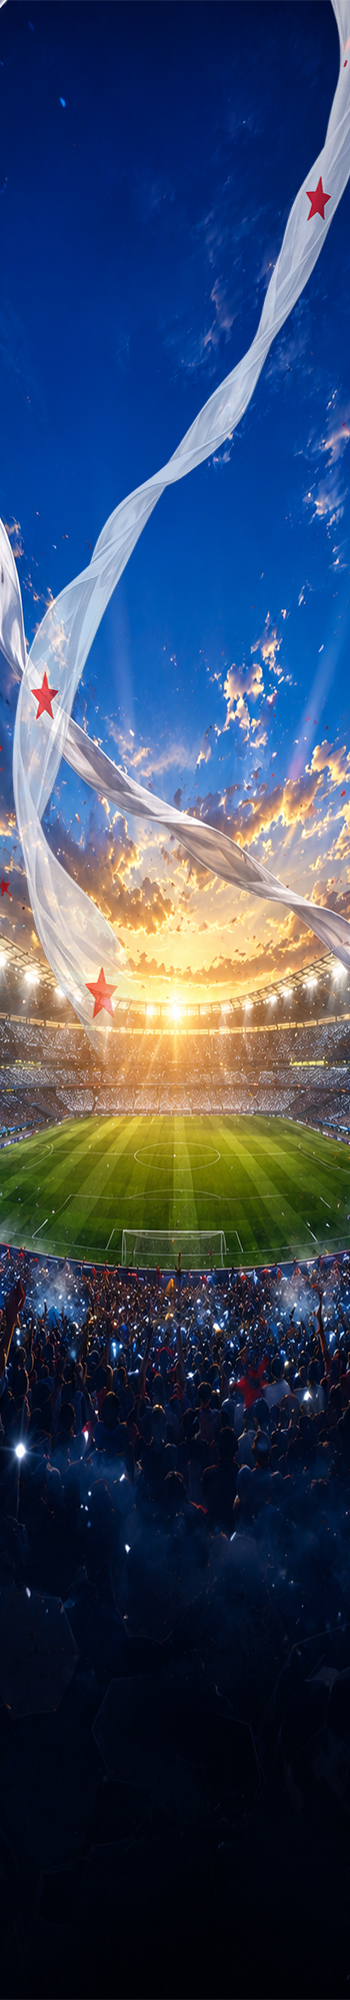
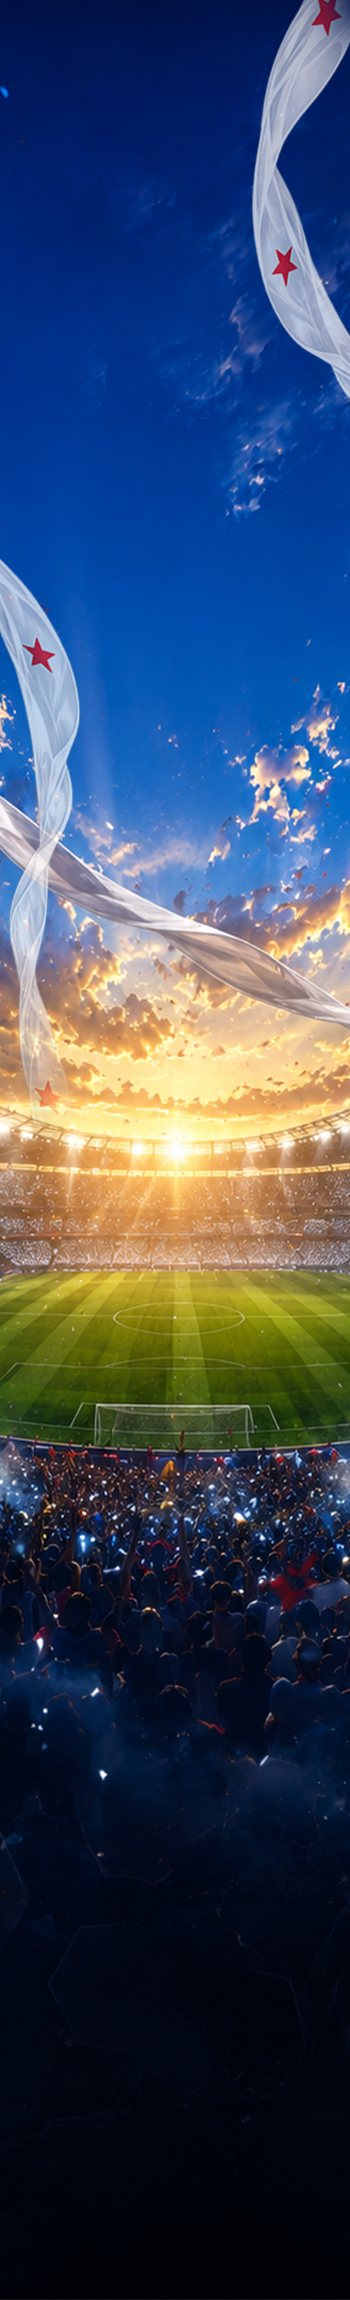
Design Change

diff --git a/frontend/src/pages/HomePage.jsx b/frontend/src/pages/HomePage.jsx
@@ -31,7 +31,7 @@ export default function HomePage() {
           setAnnouncementDate(data.data.announcementDate);
         }
       })
-      .catch(() => {});
+      .catch(() => { });
   }, []);
 
   const handleCountdownExpired = () => setSubmissionsOpen(false);
@@ -48,16 +48,16 @@ export default function HomePage() {
         {/* Nav */}
         <nav className="border-b border-white/5 px-4 md:px-8 h-14 flex items-center justify-between">
           <div className="flex items-center gap-2">
-            <span className="text-gold-500 font-display text-xl tracking-widest">WC26</span>
-            <span className="text-slate-600 text-xs uppercase tracking-widest hidden sm:block">DYFI Prediction Challenge</span>
+            <span className="text-slate-400  text-xs uppercase tracking-widest">DYFI BALUSSERY MC</span>
+            <span className="text-slate-600 text-xs uppercase tracking-widest hidden sm:block">World Cup Prediction Challenge</span>
           </div>
           <div className="flex items-center gap-4">
-            <Link to="/leaderboard" className="text-sm text-slate-400 hover:text-gold-400 transition-colors">
+            <Link to="/leaderboard" className="text-sm text-slate-500 hover:text-gold-400 transition-colors">
               Leaderboard
             </Link>
             <Link
               to="/admin"
-              className="text-xs px-3 py-1.5 rounded-lg border border-white/10 text-slate-400 hover:text-gold-400 hover:border-gold-500/20 transition-all"
+              className="text-xs px-3 py-1.5 rounded-lg border border-white/10 text-slate-500 hover:text-gold-400 hover:border-gold-500/20 transition-all"
             >
               Admin
             </Link>
@@ -87,19 +87,19 @@ export default function HomePage() {
             <div className="text-xs tracking-[0.4em] text-gold-500 uppercase mb-3">
               FIFA World Cup 2026
             </div>
-             <div className='text-4xl md:text-5xl lg:text-8xl font-display'>DYFI BALUSSERY MC</div>
+            <div className='text-3xl md:text-5xl lg:text-8xl font-display'>DYFI BALUSSERY MC</div>
             <h1
               className="font-display  text-5xl md:text-7xl lg:text-8xl tracking-wider leading-none "
               style={{ color: '#f1f5f9' }}>
-              
 
-              
-                <h1 className="gold-text mt-5">PREDICTION CHALLENGE</h1>
-                
+
+
+              <h1 className="gold-text mt-5 font ">PREDICTION CHALLENGE</h1>
+
             </h1>
             <p className="text-slate-400 text-base md:text-lg mt-6 max-w-xl mx-auto leading-relaxed">
-              Predict the FIFA World Cup Final winner and score before kickoff.
-              Compete with football fans and see how accurate your prediction is.
+              Think you know who will lift the trophy?
+Predict the World Cup Final winner and score for a chance to win a special gift.
             </p>
           </motion.div>
 
@@ -193,7 +193,7 @@ export default function HomePage() {
             <div className="flex items-start gap-3">
               <span className="text-2xl">⏰</span>
               <p className="text-slate-200 text-sm">
-                Prediction submissions close when the World Cup Final starts.
+                Predictions will close on <span className='font-black text-amber-300'>13 July 2026</span> at 11:59 PM.
               </p>
             </div>
             <div className="flex items-start gap-3">
@@ -212,7 +212,7 @@ export default function HomePage() {
           </h2>
           <div className="grid grid-cols-1 md:grid-cols-3 gap-4">
             {[
-              { step: '01', icon: '📝', title: 'Submit', desc: 'Fill in your name, phone, predicted winner, and final score before kickoff.' },
+              { step: '01', icon: '📝', title: 'Submit', desc: 'Fill in your name, phone, predicted winner, and final score before deadline.' },
               { step: '02', icon: '⚽', title: 'Watch', desc: 'Enjoy the FIFA World Cup Final and cheer for your predicted winner.' },
               { step: '03', icon: '🏆', title: 'Win', desc: 'Results and leaderboard published after the official final result is confirmed.' },
             ].map((item) => (
@@ -255,16 +255,32 @@ export default function HomePage() {
               </div>
             </div>
           </div>
+          <div className='text-center pt-4'>
+            <a
+              href="https://wa.me/919846112307"
+              target="_blank"
+              rel="noopener noreferrer"
+              className=" text-sm border border-green-500 rounded-full px-4 py-2 text-green-500 hover:text-gold-400 transition-colors mt-2 inline-block"
+            >
+              Contact on WhatsApp →
+            </a>
+          </div>
         </section>
 
         {/* Footer */}
         <footer className="border-t border-white/5 px-4 py-6 text-center">
           <p className="text-xs text-slate-600">
-            World Cup Prediction Challenge 2026 — Not a gambling platform. No real money involved.
+            <span className='text-slate-500' >DYFI BALUSSERY MC</span>
+            <br/> 
+            World Cup Prediction Challenge 2026  
+            
+           
           </p>
           <Link to="/leaderboard" className="text-xs text-gold-600 hover:text-gold-400 transition-colors mt-2 inline-block">
             View Leaderboard →
           </Link>
+          <p className="text-[7px] text-slate-600"> Not a gambling platform. No real money involved.</p>
+
         </footer>
 
       </div> {/* closes relative z-10 */}
